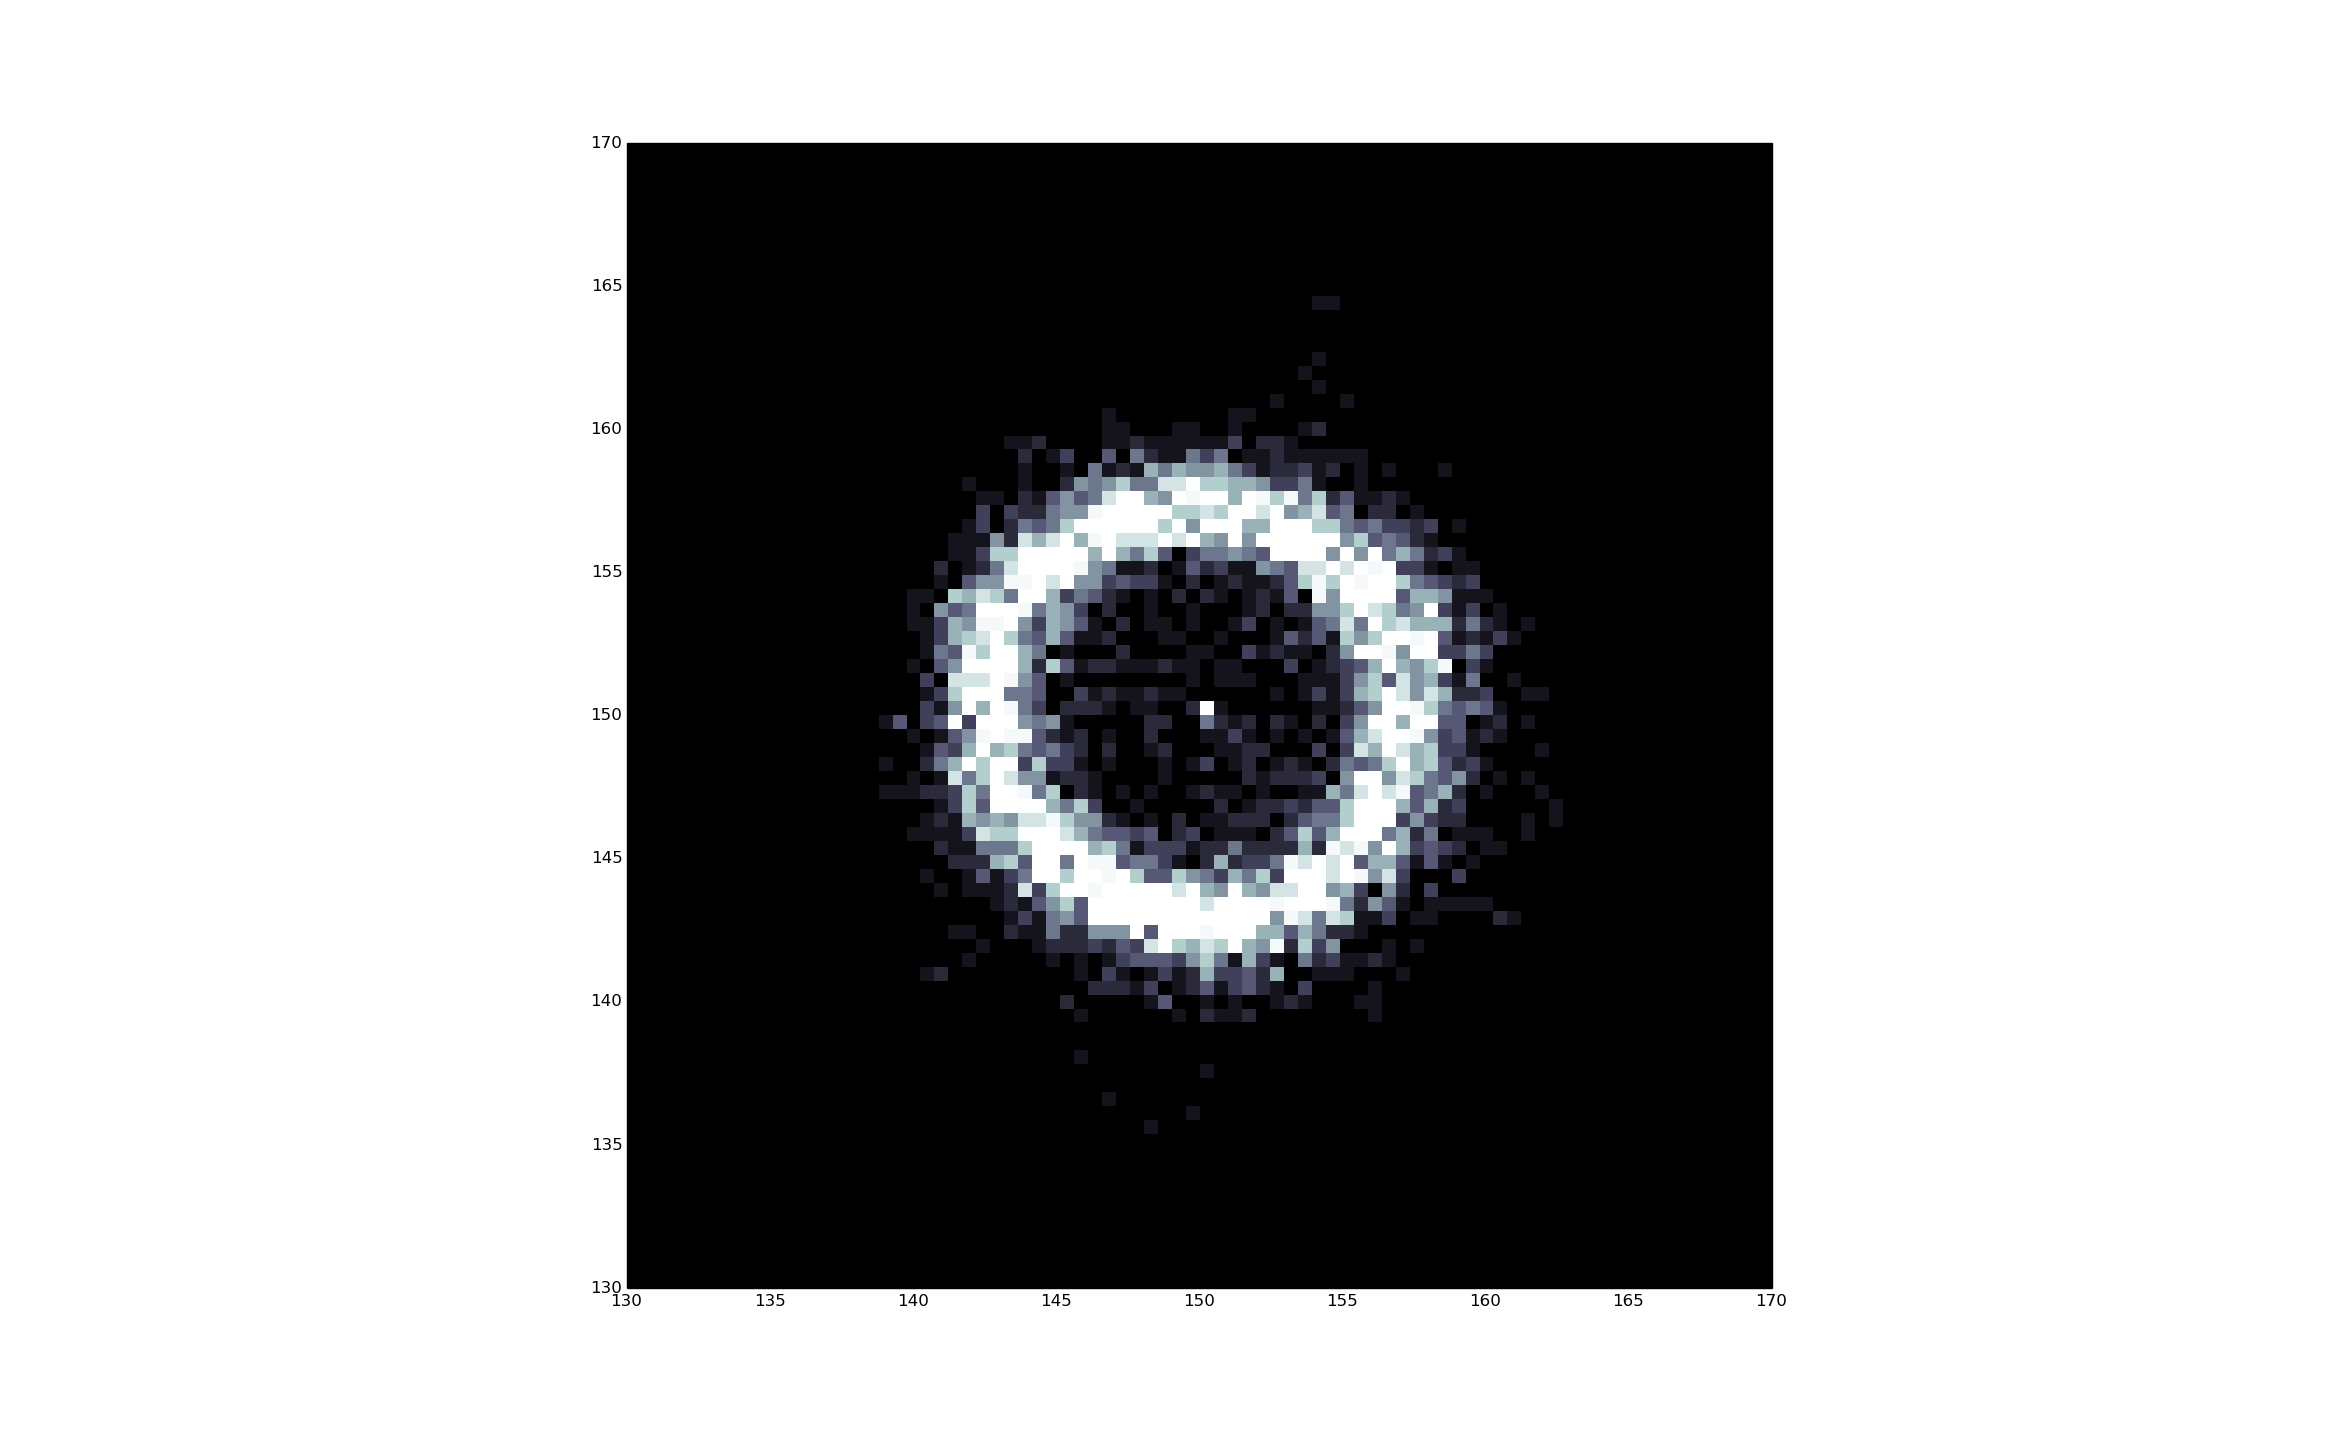
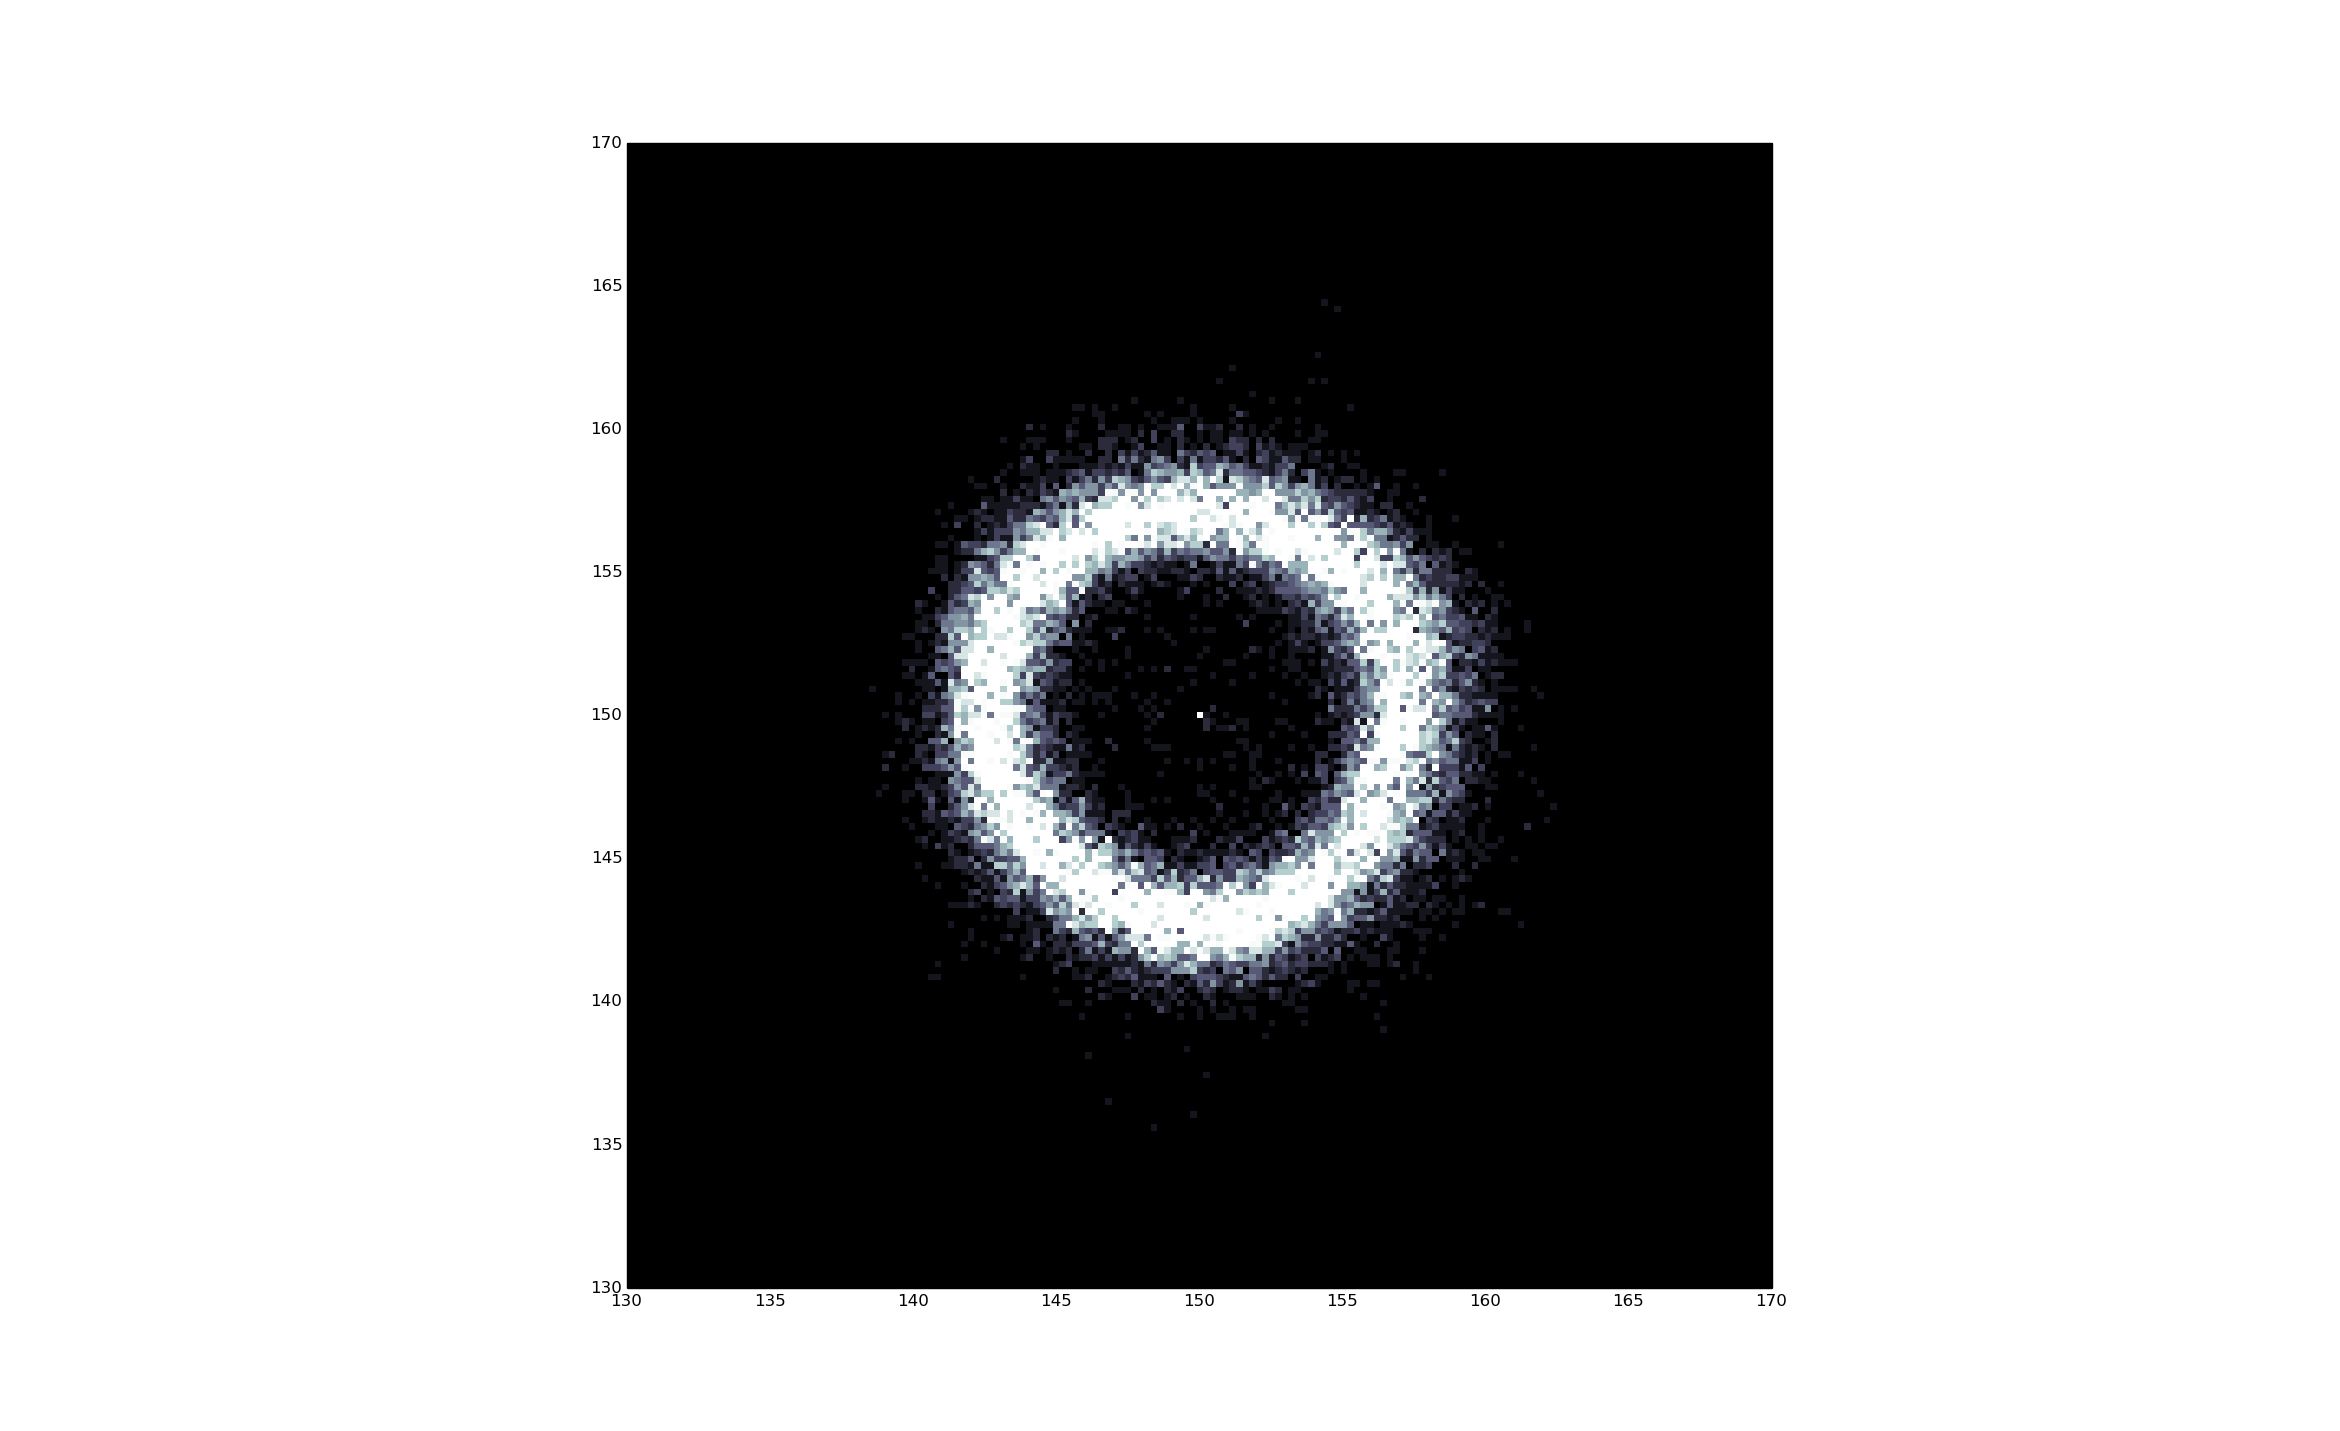
Add multiple histograms for membrane radius dependency

Changed region(s): [[0.3744, 0.246, 0.6863, 0.7379], [0.3744, 0.6765, 0.4056, 0.7072]]

diff --git a/main.py b/main.py
@@ -123,9 +123,6 @@ if __name__ == '__main__':
     spring_factors  = 1.12
     runner.set_spring_constant(spring_factors)
 
-    sheet_radius    = 60
-    runner.set_sheet_radius(sheet_radius)
-
     # Membrane harmonic constant
     membrane_bond_ks = 0.6
     runner.set_membrane_bond_harmonic_constant(membrane_bond_ks)
@@ -151,7 +148,11 @@ if __name__ == '__main__':
     runner.set_amplitude(amplitudes)
 
     # 102.01 and 112.01 gave great results
-    a_ball_mass     = [121 + 3 * it for it in range(1)]
+    a_ball_mass     = 121
+    runner.set_a_ball_mass(a_ball_mass)
+
+    # Membrane size
+    sheet_radius    = [50 + it for it in range(30)]
 
     # Declare score paths
     ball_file = 'data/single_ball.dat'
@@ -162,13 +163,13 @@ if __name__ == '__main__':
     membranes_z = []
 
     # Final settings
-    runner.set_number_of_iterations(int(12e7))
+    runner.set_number_of_iterations(int(5e5))
     runner.set_number_of_cores(4)
 
-    for val in a_ball_mass:
+    for val in sheet_radius:
         print 'current value is now set to: ', val
         # Set value to check and check
-        runner.set_a_ball_mass(val)
+        runner.set_sheet_radius(val)
         runner.run_it(template_file)
         # Read ball positions
         ball_score = an.read_pos(ball_file)
@@ -179,6 +180,10 @@ if __name__ == '__main__':
         memb_score = an.read_pos(memb_file)
         mz = [pos[2] for pos in memb_score]
         membranes_z.append(mz)
+
+        # Save histogram after each run
+        savepath = 'plots/membrane_radius_histograms/radius_{}.png'.format(val)
+        an.make_position_histogram(ball_file, limits=[100, 200], savepath=savepath)
 
         # Resave every iteration (you can see those live with ipython)
         with open('data/ball.pickle', 'wb') as fout:

diff --git a/anal.py b/anal.py
@@ -1,7 +1,7 @@
 import matplotlib.pyplot as plt
 import numpy as np
 
-def make_position_histogram(filepath, limits=None, cmap='bone'):
+def make_position_histogram(filepath, limits=None, cmap='bone', savepath=None):
     """ Choosing proper number of bins is important, apparently"""
     # Read the full path from 'data/single_ball.dat'
     scores = read_pos(filepath)
@@ -28,7 +28,10 @@ def make_position_histogram(filepath, limits=None, cmap='bone'):
 				origin='low',
 				cmap=plt.get_cmap(cmap),
 				extent=[xedges[0], xedges[-1], yedges[0], yedges[-1]])
-    plt.show()
+    if not savepath:
+	plt.show()
+    else:
+	plt.savefig(savepath)
 
 def read_pos(filepath):
     out = []
